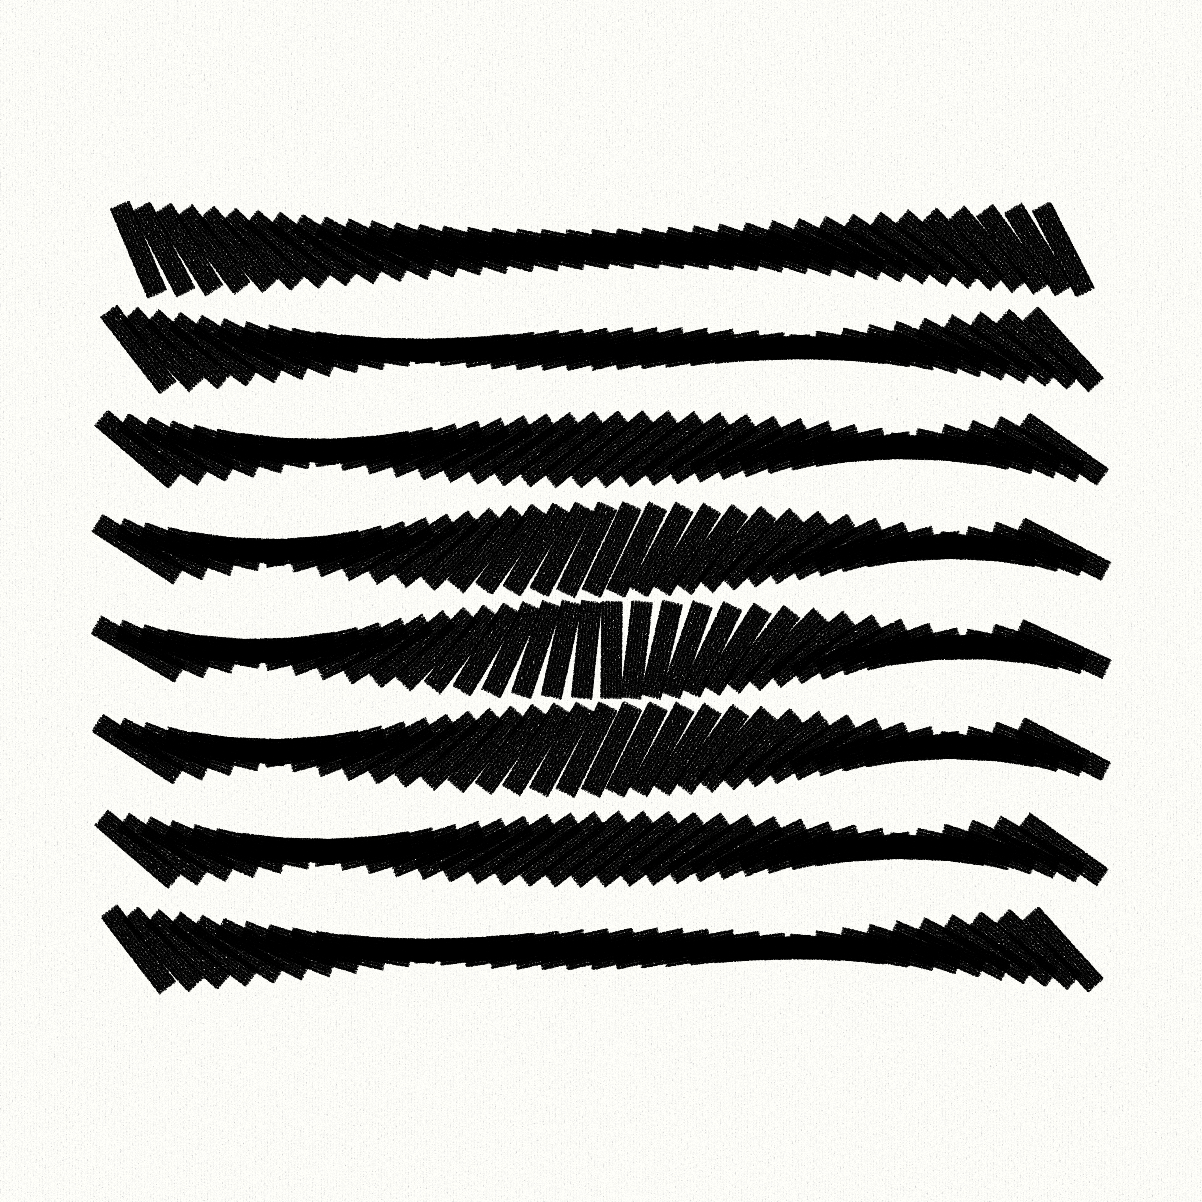
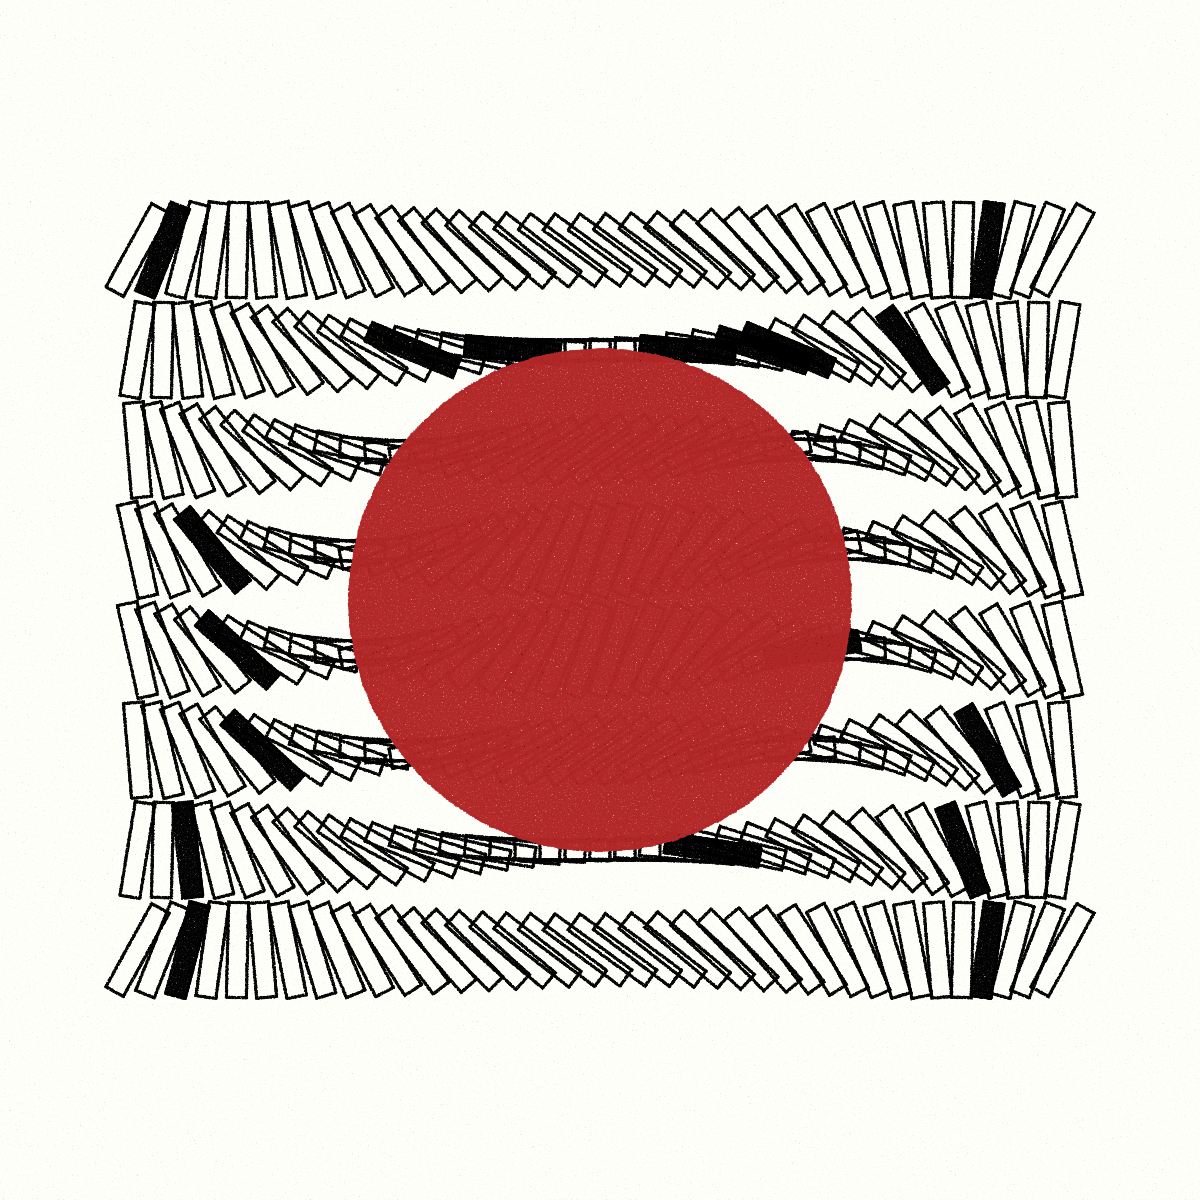
better parameters set for ScannerFill

diff --git a/processing/libraries/site-packages/fills.py b/processing/libraries/site-packages/fills.py
@@ -168,17 +168,17 @@ class ScannerFill(BasicFill):
     def __init__(self, pg):
         super(ScannerFill, self).__init__(pg)
         self.pen = pens.PenRandom(pg, self)
+        self.step = 2.5
 
     def rect(self, ul, w, h, col):
         self.pg.noStroke()
         self.pen.stroke(col)
         self.pen.noFill()
 
-        for x in range(int(ul.x), int(ul.x+w)+1, 3):
+        x = ul.x
+        while x < ul.x+w:
             self.pen.line(PVector(x, ul.y), PVector(x, ul.y+h))
-
-        #for y in range(int(ul.y), int(ul.y+h)+1, 3):
-        #   self.pen.line(PVector(ul.x, y + random(-3, 3)), PVector(ul.x+w, y + random(-3, 3)))
+            x += self.step
 
         self.pg.noStroke()
         self.pg.noFill()
@@ -187,8 +187,22 @@ class ScannerFill(BasicFill):
         self.pg.noStroke()
         self.pen.stroke(col)
         self.pen.noFill()
-        n = 300
-        points = [(c.x + cos(2 * PI / n * x) * r, c.y + sin(2 * PI / n * x) * r) for x in range(0, n+1)]
+        
+        xs = []
+
+        x = c.x - r
+        while x < c.x + r:
+            xs.append(x)
+            x += self.step
+        
+        points = []
+        for x in xs:
+            d = r**2 - (x - c.x)**2
+            if d > 0:
+                y = sqrt(d) + c.y
+            else:
+                continue
+            points.append((x, y))
 
         for x, y in points:
             y_diff = y - c.y

diff --git a/processing/libraries/site-packages/pens.py b/processing/libraries/site-packages/pens.py
@@ -156,8 +156,6 @@ class PenRandom(PenBasic):
     def line(self, v1, v2):
         if self._fill:
             self.filler.line(PVector(v1.x, v1.y), PVector(v2.x, v2.y), self.fill_col)
-            if self.fill_col == self.stroke_col:
-                return
 
         if not self._stroke:
             return
@@ -195,8 +193,6 @@ class PenRandom(PenBasic):
     def circle(self, c, r):
         if self._fill:
             self.filler.circle(PVector(c.x, c.y), r, self.fill_col)
-            if self.fill_col == self.stroke_col:
-                return
 
         if not self._stroke:
             return
@@ -218,8 +214,6 @@ class PenRandom(PenBasic):
     def rect(self, ul, w, h):
         if self._fill:
             self.filler.rect(ul, w, h, self.fill_col)
-            if self.fill_col == self.stroke_col:
-                return
 
         if not self._stroke:
             return
